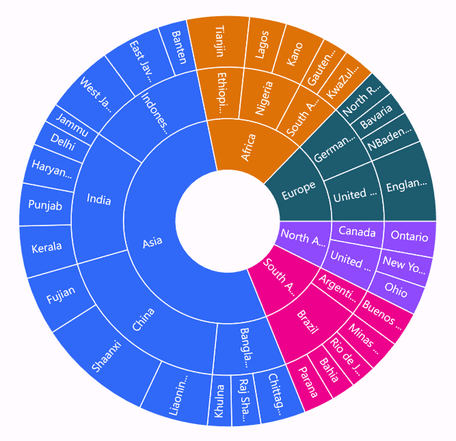
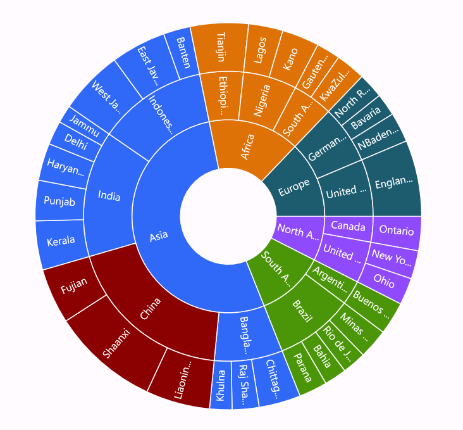
commit

diff --git a/MAUI/SunburstChart/DrillDown.md b/MAUI/SunburstChart/DrillDown.md
@@ -34,6 +34,8 @@ this.Content = sunburst;
 
 {% endtabs %}
 
+![Drill Down in MAUI Sunburst Chart.](drill_down_images/maui_drill_down.gif)
+
 ## Toolbar Alignment
 
 The vertical and the horizontal alignments of the toolbar can be customized using the `VerticalAlignment` and `HorizontalAlignment` properties, respectively.
@@ -52,7 +54,7 @@ Both the alignment properties has the following enum types:
     . . .
     <chart:SfSunburstChart.ToolbarSettings>
         <chart:SunburstToolbarSettings HorizontalAlignment="Center" 
-                                                VerticalAlignment="Center"/>
+                                       VerticalAlignment="Center"/>
     </chart:SfSunburstChart.ToolbarSettings>
 </sunburst:SfSunburstChart>
     
@@ -75,6 +77,8 @@ this.Content = sunburst;
 
 {% endtabs %}
 
+![Drill Down Toolbar Alignment.](drill_down_images/maui_toolbar_alignment.png)
+
 ## Toolbar Positioning
 
 The toolbar's position within the Sunburst Chart can be adjusted both horizontally and vertically using the `OffsetX` and `OffsetY` properties of the `SunburstToolbarSettings` class.
@@ -86,7 +90,7 @@ The toolbar's position within the Sunburst Chart can be adjusted both horizontal
 <sunburst:SfSunburstChart EnableDrillDown="True">
     . . .
     <chart:SfSunburstChart.ToolbarSettings >
-        <chart:SunburstToolbarSettings OffsetX="50" OffsetY="100"/>
+        <chart:SunburstToolbarSettings OffsetX="-50" OffsetY="200"/>
     </chart:SfSunburstChart.ToolbarSettings>
 </sunburst:SfSunburstChart>
     
@@ -99,8 +103,8 @@ sunburst.EnableDrillDown = true;
 . . .
 SunburstToolbarSettings toolbarSettings = new SunburstToolbarSettings()
 {
-    OffsetX = 50,
-    OffsetY = 100,
+    OffsetX = -50,
+    OffsetY = 200,
 };
 sunburst.ToolbarSettings = toolbarSettings;
 this.Content = sunburst;
@@ -108,6 +112,8 @@ this.Content = sunburst;
 {% endhighlight %}
 
 {% endtabs %}
+
+![Drill Down Toolbar Positioning.](drill_down_images/maui_toolbar_positioning.png)
 
 ## Toolbar Customization  
 
@@ -145,3 +151,5 @@ this.Content = sunburst;
 {% endhighlight %}
 
 {% endtabs %}
+
+![Drill Down TToolbar Customization.](drill_down_images/maui_toolbar_customization.png)

diff --git a/MAUI/SunburstChart/Selection.md b/MAUI/SunburstChart/Selection.md
@@ -169,7 +169,7 @@ This mode highlights the selected segment using the brush defined in the `Fill` 
 <chart:SfSunburstChart>
     . . .
     <chart:SfSunburstChart.SelectionSettings>
-        <chart:SunburstSelectionSettings Fill="Pink" DisplayMode="HighlightByBrush" Type="Child"/>
+        <chart:SunburstSelectionSettings Fill="DarkRed" DisplayMode="HighlightByBrush" Type="Child"/>
     </chart:SfSunburstChart.SelectionSettings>
 </chart:SfSunburstChart>
 
@@ -181,7 +181,7 @@ SfSunburstChart sunburstChart = new SfSunburstChart();
 . . .
 SunburstSelectionSettings selectionSettings = new SunburstSelectionSettings
 {
-    Fill = Colors.Pink,
+    Fill = Colors.DarkRed,
     DisplayMode = SunburstSelectionDisplayMode.HighlightByBrush,
     Type = SunburstSelectionType.Child,
 };
